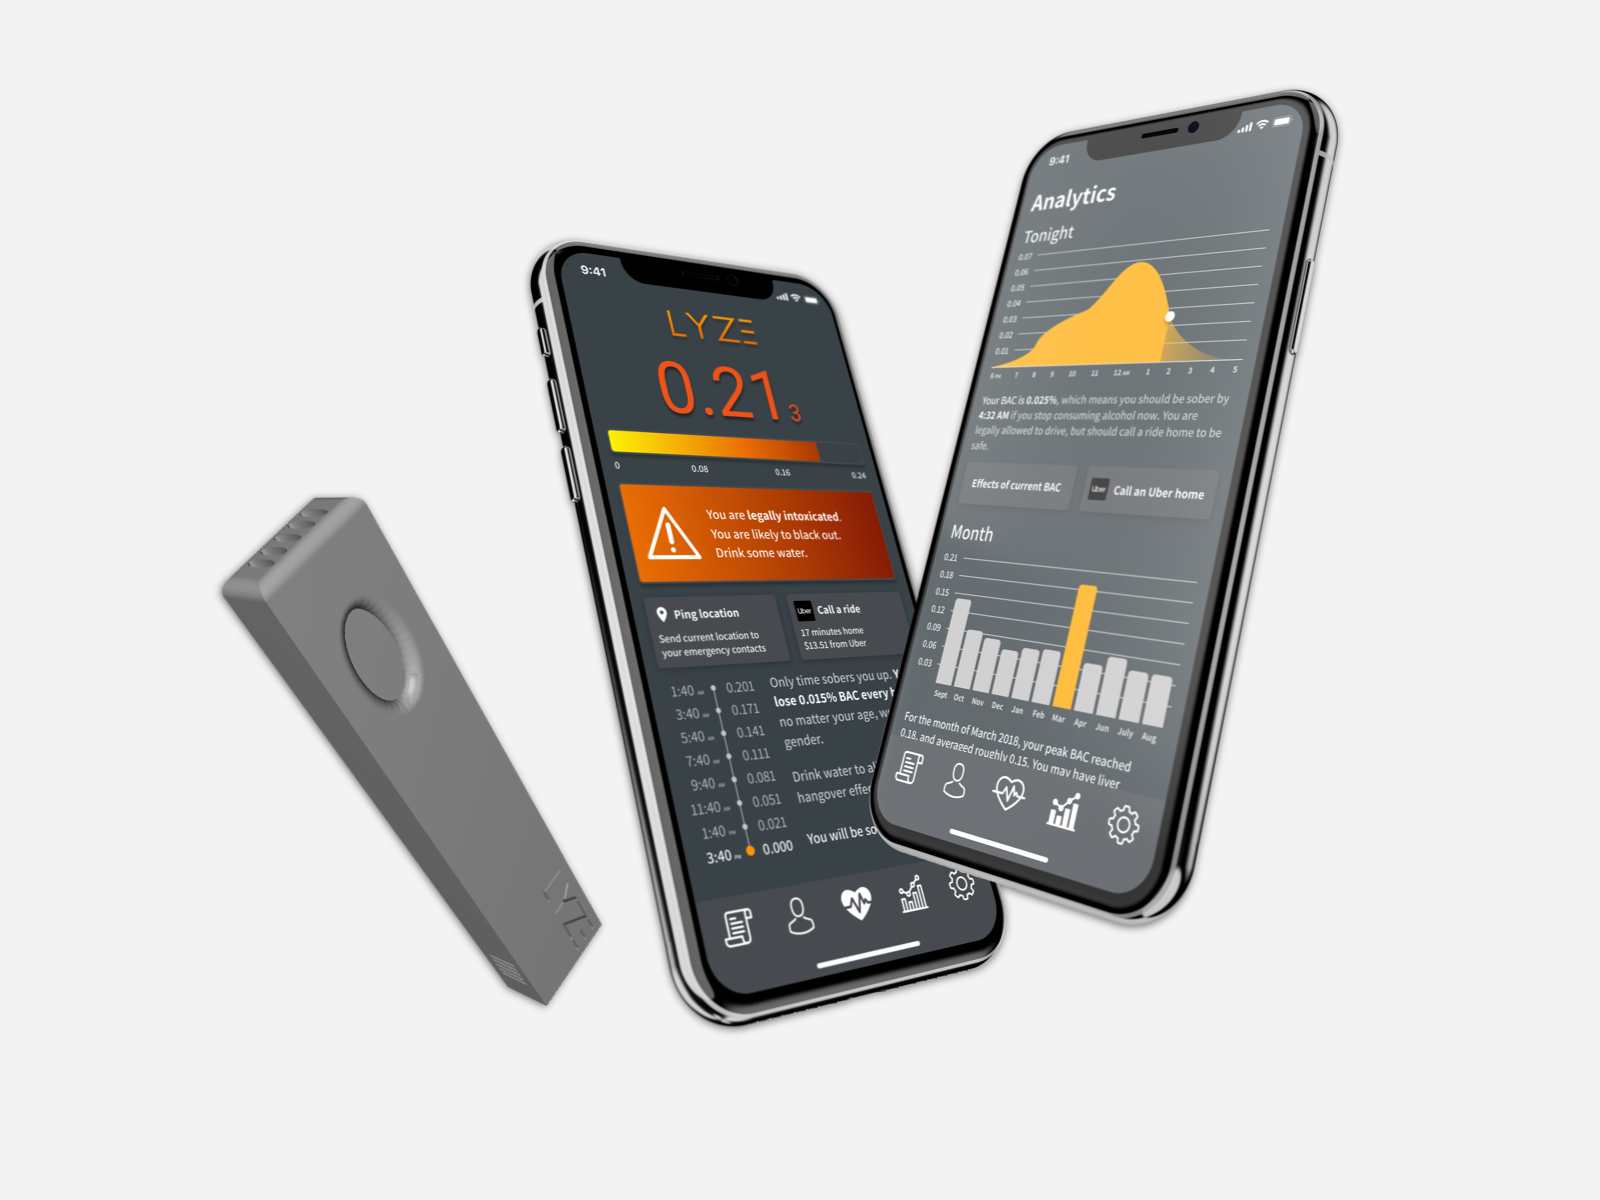
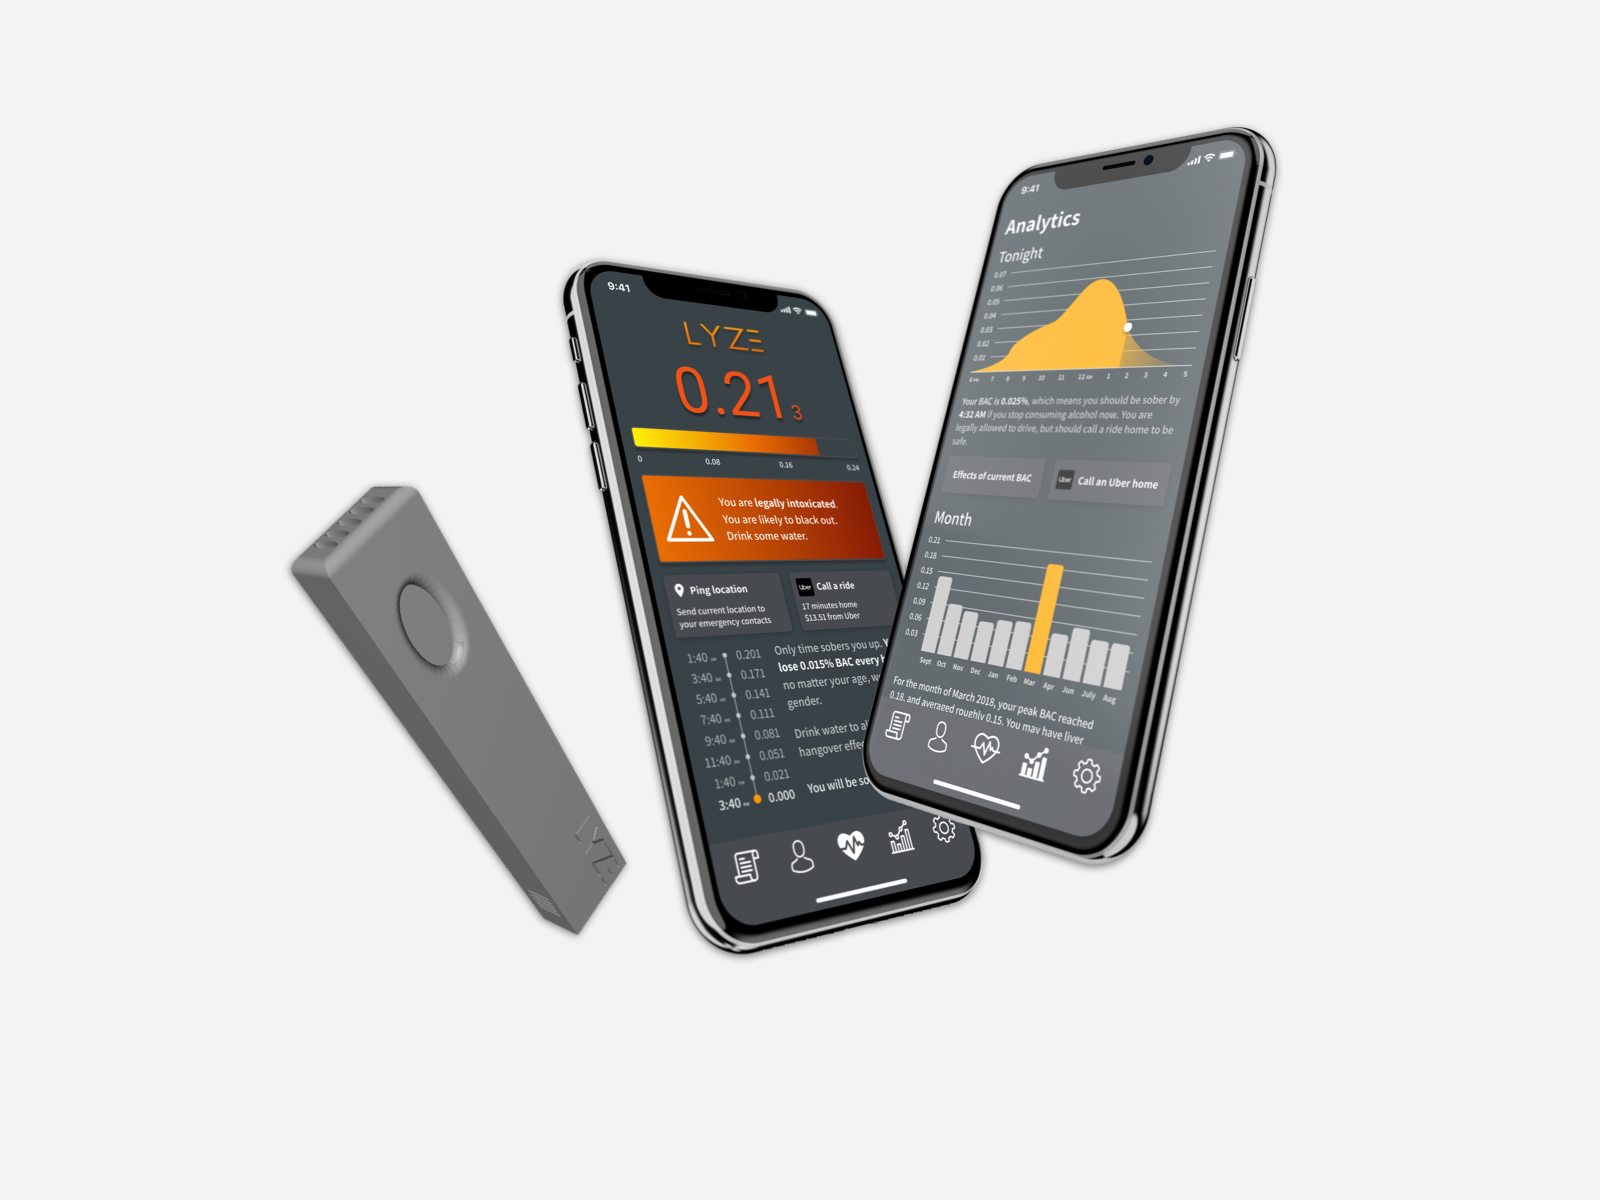
edited typefaces and thumbnails

Changed region(s): [[0.125, 0.0617, 0.8438, 0.8633]]

diff --git a/350z.html b/350z.html
@@ -18,17 +18,17 @@
 	<meta name="keywords" content="portfolio, collin tran, collin, tran, ux design, ux, design, ui, product, management">
 	<meta name="viewport" content="width=device-width, initial-scale=1.0">
 	<!-- Favicon -->   
-	<link href="img/favicon.ico" rel="shortcut icon"/>
+	<link href="img/favicon/favicon.ico" rel="shortcut icon">
 	<link rel="apple-touch-icon" sizes="180x180" href="/apple-touch-icon.png">
 	<link rel="icon" type="image/png" sizes="32x32" href="/favicon-32x32.png">
 	<link rel="icon" type="image/png" sizes="16x16" href="/favicon-16x16.png">
 	<link rel="manifest" href="/site.webmanifest">
-	<link rel="mask-icon" href="/safari-pinned-tab.svg" color="#000000">
+	<link rel="mask-icon" href="/safari-pinned-tab.svg" color="#ffffff">
 	<meta name="msapplication-TileColor" content="#ffffff">
 	<meta name="theme-color" content="#ffffff">
 
 	<!-- Google Fonts -->
-	<link href="https://fonts.googleapis.com/css?family=Open+Sans:300,400,400i,700|Quicksand:400,600,700&display=swap" rel="stylesheet">
+	<link href="https://fonts.googleapis.com/css?family=Be+Vietnam:300,400,400i,700|Quicksand:400,500,600,700&display=swap" rel="stylesheet">
 	<!--:400,400i,600,600i,700-->
 	<!-- Stylesheets -->
 	<link rel="stylesheet" href="css/bootstrap.min.css"/>

diff --git a/americant.html b/americant.html
@@ -18,17 +18,17 @@
 	<meta name="keywords" content="portfolio, collin tran, collin, tran, ux design, ux, design, ui, product, management">
 	<meta name="viewport" content="width=device-width, initial-scale=1.0">
 	<!-- Favicon -->   
-	<link href="img/favicon.ico" rel="shortcut icon"/>
+	<link href="img/favicon/favicon.ico" rel="shortcut icon">
 	<link rel="apple-touch-icon" sizes="180x180" href="/apple-touch-icon.png">
 	<link rel="icon" type="image/png" sizes="32x32" href="/favicon-32x32.png">
 	<link rel="icon" type="image/png" sizes="16x16" href="/favicon-16x16.png">
 	<link rel="manifest" href="/site.webmanifest">
-	<link rel="mask-icon" href="/safari-pinned-tab.svg" color="#000000">
+	<link rel="mask-icon" href="/safari-pinned-tab.svg" color="#ffffff">
 	<meta name="msapplication-TileColor" content="#ffffff">
 	<meta name="theme-color" content="#ffffff">
 
 	<!-- Google Fonts -->
-	<link href="https://fonts.googleapis.com/css?family=Open+Sans:300,400,400i,700|Quicksand:400,600,700&display=swap" rel="stylesheet">
+	<link href="https://fonts.googleapis.com/css?family=Be+Vietnam:300,400,400i,700|Quicksand:400,500,600,700&display=swap" rel="stylesheet">
 	<!--:400,400i,600,600i,700-->
 	<!-- Stylesheets -->
 	<link rel="stylesheet" href="css/bootstrap.min.css"/>

diff --git a/cabin.html b/cabin.html
@@ -18,17 +18,17 @@
 	<meta name="keywords" content="portfolio, collin tran, collin, tran, ux design, ux, design, ui, product, management">
 	<meta name="viewport" content="width=device-width, initial-scale=1.0">
 	<!-- Favicon -->   
-	<link href="img/favicon.ico" rel="shortcut icon"/>
+	<link href="img/favicon/favicon.ico" rel="shortcut icon">
 	<link rel="apple-touch-icon" sizes="180x180" href="/apple-touch-icon.png">
 	<link rel="icon" type="image/png" sizes="32x32" href="/favicon-32x32.png">
 	<link rel="icon" type="image/png" sizes="16x16" href="/favicon-16x16.png">
 	<link rel="manifest" href="/site.webmanifest">
-	<link rel="mask-icon" href="/safari-pinned-tab.svg" color="#000000">
+	<link rel="mask-icon" href="/safari-pinned-tab.svg" color="#ffffff">
 	<meta name="msapplication-TileColor" content="#ffffff">
 	<meta name="theme-color" content="#ffffff">
 
 	<!-- Google Fonts -->
-	<link href="https://fonts.googleapis.com/css?family=Open+Sans:300,400,400i,700|Quicksand:400,600,700&display=swap" rel="stylesheet">
+	<link href="https://fonts.googleapis.com/css?family=Be+Vietnam:300,400,400i,700|Quicksand:400,500,600,700&display=swap" rel="stylesheet">
 	<!--:400,400i,600,600i,700-->
 	<!-- Stylesheets -->
 	<link rel="stylesheet" href="css/bootstrap.min.css"/>

diff --git a/ess.html b/ess.html
@@ -18,17 +18,17 @@
 	<meta name="keywords" content="portfolio, collin tran, collin, tran, ux design, ux, design, ui, product, management">
 	<meta name="viewport" content="width=device-width, initial-scale=1.0">
 	<!-- Favicon -->   
-	<link href="img/favicon.ico" rel="shortcut icon"/>
+	<link href="img/favicon/favicon.ico" rel="shortcut icon">
 	<link rel="apple-touch-icon" sizes="180x180" href="/apple-touch-icon.png">
 	<link rel="icon" type="image/png" sizes="32x32" href="/favicon-32x32.png">
 	<link rel="icon" type="image/png" sizes="16x16" href="/favicon-16x16.png">
 	<link rel="manifest" href="/site.webmanifest">
-	<link rel="mask-icon" href="/safari-pinned-tab.svg" color="#000000">
+	<link rel="mask-icon" href="/safari-pinned-tab.svg" color="#ffffff">
 	<meta name="msapplication-TileColor" content="#ffffff">
 	<meta name="theme-color" content="#ffffff">
 
 	<!-- Google Fonts -->
-	<link href="https://fonts.googleapis.com/css?family=Open+Sans:300,400,400i,700|Quicksand:400,600,700&display=swap" rel="stylesheet">
+	<link href="https://fonts.googleapis.com/css?family=Be+Vietnam:300,400,400i,700|Quicksand:400,500,600,700&display=swap" rel="stylesheet">
 	<!--:400,400i,600,600i,700-->
 	<!-- Stylesheets -->
 	<link rel="stylesheet" href="css/bootstrap.min.css"/>

diff --git a/lyze.html b/lyze.html
@@ -18,17 +18,17 @@
 	<meta name="keywords" content="portfolio, collin tran, collin, tran, ux design, ux, design, ui, product, management">
 	<meta name="viewport" content="width=device-width, initial-scale=1.0">
 	<!-- Favicon -->   
-	<link href="img/favicon.ico" rel="shortcut icon"/>
+	<link href="img/favicon/favicon.ico" rel="shortcut icon">
 	<link rel="apple-touch-icon" sizes="180x180" href="/apple-touch-icon.png">
 	<link rel="icon" type="image/png" sizes="32x32" href="/favicon-32x32.png">
 	<link rel="icon" type="image/png" sizes="16x16" href="/favicon-16x16.png">
 	<link rel="manifest" href="/site.webmanifest">
-	<link rel="mask-icon" href="/safari-pinned-tab.svg" color="#000000">
+	<link rel="mask-icon" href="/safari-pinned-tab.svg" color="#ffffff">
 	<meta name="msapplication-TileColor" content="#ffffff">
 	<meta name="theme-color" content="#ffffff">
 
 	<!-- Google Fonts -->
-	<link href="https://fonts.googleapis.com/css?family=Open+Sans:300,400,400i,700|Quicksand:400,600,700&display=swap" rel="stylesheet">
+	<link href="https://fonts.googleapis.com/css?family=Be+Vietnam:300,400,400i,700|Quicksand:400,500,600,700&display=swap" rel="stylesheet">
 	<!--:400,400i,600,600i,700-->
 	<!-- Stylesheets -->
 	<link rel="stylesheet" href="css/bootstrap.min.css"/>

diff --git a/mealmatchup.html b/mealmatchup.html
@@ -18,17 +18,17 @@
 	<meta name="keywords" content="portfolio, collin tran, collin, tran, ux design, ux, design, ui, product, management">
 	<meta name="viewport" content="width=device-width, initial-scale=1.0">
 	<!-- Favicon -->   
-	<link href="img/favicon.ico" rel="shortcut icon"/>
+	<link href="img/favicon/favicon.ico" rel="shortcut icon">
 	<link rel="apple-touch-icon" sizes="180x180" href="/apple-touch-icon.png">
 	<link rel="icon" type="image/png" sizes="32x32" href="/favicon-32x32.png">
 	<link rel="icon" type="image/png" sizes="16x16" href="/favicon-16x16.png">
 	<link rel="manifest" href="/site.webmanifest">
-	<link rel="mask-icon" href="/safari-pinned-tab.svg" color="#000000">
+	<link rel="mask-icon" href="/safari-pinned-tab.svg" color="#ffffff">
 	<meta name="msapplication-TileColor" content="#ffffff">
 	<meta name="theme-color" content="#ffffff">
 
 	<!-- Google Fonts -->
-	<link href="https://fonts.googleapis.com/css?family=Open+Sans:300,400,400i,700|Quicksand:400,600,700&display=swap" rel="stylesheet">
+	<link href="https://fonts.googleapis.com/css?family=Be+Vietnam:300,400,400i,700|Quicksand:400,500,600,700&display=swap" rel="stylesheet">
 	<!--:400,400i,600,600i,700-->
 	<!-- Stylesheets -->
 	<link rel="stylesheet" href="css/bootstrap.min.css"/>

diff --git a/nexsan7.html b/nexsan7.html
@@ -18,17 +18,17 @@
 	<meta name="keywords" content="portfolio, collin tran, collin, tran, ux design, ux, design, ui, product, management">
 	<meta name="viewport" content="width=device-width, initial-scale=1.0">
 	<!-- Favicon -->   
-	<link href="img/favicon.ico" rel="shortcut icon"/>
+	<link href="img/favicon/favicon.ico" rel="shortcut icon">
 	<link rel="apple-touch-icon" sizes="180x180" href="/apple-touch-icon.png">
 	<link rel="icon" type="image/png" sizes="32x32" href="/favicon-32x32.png">
 	<link rel="icon" type="image/png" sizes="16x16" href="/favicon-16x16.png">
 	<link rel="manifest" href="/site.webmanifest">
-	<link rel="mask-icon" href="/safari-pinned-tab.svg" color="#000000">
+	<link rel="mask-icon" href="/safari-pinned-tab.svg" color="#ffffff">
 	<meta name="msapplication-TileColor" content="#ffffff">
 	<meta name="theme-color" content="#ffffff">
 
 	<!-- Google Fonts -->
-	<link href="https://fonts.googleapis.com/css?family=Open+Sans:300,400,400i,700|Quicksand:400,600,700&display=swap" rel="stylesheet">
+	<link href="https://fonts.googleapis.com/css?family=Be+Vietnam:300,400,400i,700|Quicksand:400,500,600,700&display=swap" rel="stylesheet">
 	<!--:400,400i,600,600i,700-->
 	<!-- Stylesheets -->
 	<link rel="stylesheet" href="css/bootstrap.min.css"/>

diff --git a/offerup.html b/offerup.html
@@ -18,17 +18,17 @@
 	<meta name="keywords" content="portfolio, collin tran, collin, tran, ux design, ux, design, ui, product, management">
 	<meta name="viewport" content="width=device-width, initial-scale=1.0">
 	<!-- Favicon -->   
-	<link href="img/favicon.ico" rel="shortcut icon"/>
+	<link href="img/favicon/favicon.ico" rel="shortcut icon">
 	<link rel="apple-touch-icon" sizes="180x180" href="/apple-touch-icon.png">
 	<link rel="icon" type="image/png" sizes="32x32" href="/favicon-32x32.png">
 	<link rel="icon" type="image/png" sizes="16x16" href="/favicon-16x16.png">
 	<link rel="manifest" href="/site.webmanifest">
-	<link rel="mask-icon" href="/safari-pinned-tab.svg" color="#000000">
+	<link rel="mask-icon" href="/safari-pinned-tab.svg" color="#ffffff">
 	<meta name="msapplication-TileColor" content="#ffffff">
 	<meta name="theme-color" content="#ffffff">
 
 	<!-- Google Fonts -->
-	<link href="https://fonts.googleapis.com/css?family=Open+Sans:300,400,400i,700|Quicksand:400,600,700&display=swap" rel="stylesheet">
+	<link href="https://fonts.googleapis.com/css?family=Be+Vietnam:300,400,400i,700|Quicksand:400,500,600,700&display=swap" rel="stylesheet">
 	<!--:400,400i,600,600i,700-->
 	<!-- Stylesheets -->
 	<link rel="stylesheet" href="css/bootstrap.min.css"/>

diff --git a/s2000.html b/s2000.html
@@ -18,17 +18,17 @@
 	<meta name="keywords" content="portfolio, collin tran, collin, tran, ux design, ux, design, ui, product, management">
 	<meta name="viewport" content="width=device-width, initial-scale=1.0">
 	<!-- Favicon -->   
-	<link href="img/favicon.ico" rel="shortcut icon"/>
+	<link href="img/favicon/favicon.ico" rel="shortcut icon">
 	<link rel="apple-touch-icon" sizes="180x180" href="/apple-touch-icon.png">
 	<link rel="icon" type="image/png" sizes="32x32" href="/favicon-32x32.png">
 	<link rel="icon" type="image/png" sizes="16x16" href="/favicon-16x16.png">
 	<link rel="manifest" href="/site.webmanifest">
-	<link rel="mask-icon" href="/safari-pinned-tab.svg" color="#000000">
+	<link rel="mask-icon" href="/safari-pinned-tab.svg" color="#ffffff">
 	<meta name="msapplication-TileColor" content="#ffffff">
 	<meta name="theme-color" content="#ffffff">
 
 	<!-- Google Fonts -->
-	<link href="https://fonts.googleapis.com/css?family=Open+Sans:300,400,400i,700|Quicksand:400,600,700&display=swap" rel="stylesheet">
+	<link href="https://fonts.googleapis.com/css?family=Be+Vietnam:300,400,400i,700|Quicksand:400,500,600,700&display=swap" rel="stylesheet">
 	<!--:400,400i,600,600i,700-->
 	<!-- Stylesheets -->
 	<link rel="stylesheet" href="css/bootstrap.min.css"/>

diff --git a/tableio.html b/tableio.html
@@ -18,17 +18,17 @@
 	<meta name="keywords" content="portfolio, collin tran, collin, tran, ux design, ux, design, ui, product, management">
 	<meta name="viewport" content="width=device-width, initial-scale=1.0">
 	<!-- Favicon -->   
-	<link href="img/favicon.ico" rel="shortcut icon"/>
+	<link href="img/favicon/favicon.ico" rel="shortcut icon">
 	<link rel="apple-touch-icon" sizes="180x180" href="/apple-touch-icon.png">
 	<link rel="icon" type="image/png" sizes="32x32" href="/favicon-32x32.png">
 	<link rel="icon" type="image/png" sizes="16x16" href="/favicon-16x16.png">
 	<link rel="manifest" href="/site.webmanifest">
-	<link rel="mask-icon" href="/safari-pinned-tab.svg" color="#000000">
+	<link rel="mask-icon" href="/safari-pinned-tab.svg" color="#ffffff">
 	<meta name="msapplication-TileColor" content="#ffffff">
 	<meta name="theme-color" content="#ffffff">
 
 	<!-- Google Fonts -->
-	<link href="https://fonts.googleapis.com/css?family=Open+Sans:300,400,400i,700|Quicksand:400,600,700&display=swap" rel="stylesheet">
+	<link href="https://fonts.googleapis.com/css?family=Be+Vietnam:300,400,400i,700|Quicksand:400,500,600,700&display=swap" rel="stylesheet">
 	<!--:400,400i,600,600i,700-->
 	<!-- Stylesheets -->
 	<link rel="stylesheet" href="css/bootstrap.min.css"/>

diff --git a/play.html b/play.html
@@ -17,7 +17,7 @@
 	<meta name="keywords" content="portfolio, collin tran, collin, tran, ux design, ux, design, ui, product, management">
 	<meta name="viewport" content="width=device-width, initial-scale=1.0">
 	<!-- Favicon -->   
-	<link href="img/favicon/favicon.ico" rel="shortcut icon"/>
+	<link href="img/favicon/favicon.ico" rel="shortcut icon">
 	<link rel="apple-touch-icon" sizes="180x180" href="/apple-touch-icon.png">
 	<link rel="icon" type="image/png" sizes="32x32" href="/favicon-32x32.png">
 	<link rel="icon" type="image/png" sizes="16x16" href="/favicon-16x16.png">
@@ -27,12 +27,11 @@
 	<meta name="theme-color" content="#ffffff">
 
 	<!-- Google Fonts -->
-	<link href="https://fonts.googleapis.com/css?family=Quicksand:400,600,700&display=swap" rel="stylesheet">
-
+	<link href="https://fonts.googleapis.com/css?family=Be+Vietnam:300,400,400i,700|Quicksand:400,500,600,700&display=swap" rel="stylesheet">
+	<!--:400,400i,600,600i,700-->
 	<!-- Stylesheets -->
 	<link rel="stylesheet" href="css/bootstrap.min.css"/>
 	<link rel="stylesheet" href="css/font-awesome.min.css"/>
-	<link rel="stylesheet" href="css/magnific-popup.css"/>
 	<link rel="stylesheet" href="css/style.css"/>
 
 

diff --git a/me.html b/me.html
@@ -18,7 +18,7 @@
 	<meta name="keywords" content="portfolio, collin tran, collin, tran, ux design, ux, design, ui, product, management">
 	<meta name="viewport" content="width=device-width, initial-scale=1.0">
 	<!-- Favicon -->   
-	<link href="img/favicon.ico" rel="shortcut icon"/>
+	<link href="img/favicon/favicon.ico" rel="shortcut icon">
 	<link rel="apple-touch-icon" sizes="180x180" href="/apple-touch-icon.png">
 	<link rel="icon" type="image/png" sizes="32x32" href="/favicon-32x32.png">
 	<link rel="icon" type="image/png" sizes="16x16" href="/favicon-16x16.png">
@@ -28,7 +28,7 @@
 	<meta name="theme-color" content="#ffffff">
 
 	<!-- Google Fonts -->
-	<link href="https://fonts.googleapis.com/css?family=Open+Sans:300,400,400i,700|Quicksand:400,600,700&display=swap" rel="stylesheet">
+	<link href="https://fonts.googleapis.com/css?family=Be+Vietnam:300,400,400i,700|Quicksand:400,500,600,700&display=swap" rel="stylesheet">
 	<!--:400,400i,600,600i,700-->
 	<!-- Stylesheets -->
 	<link rel="stylesheet" href="css/bootstrap.min.css"/>
